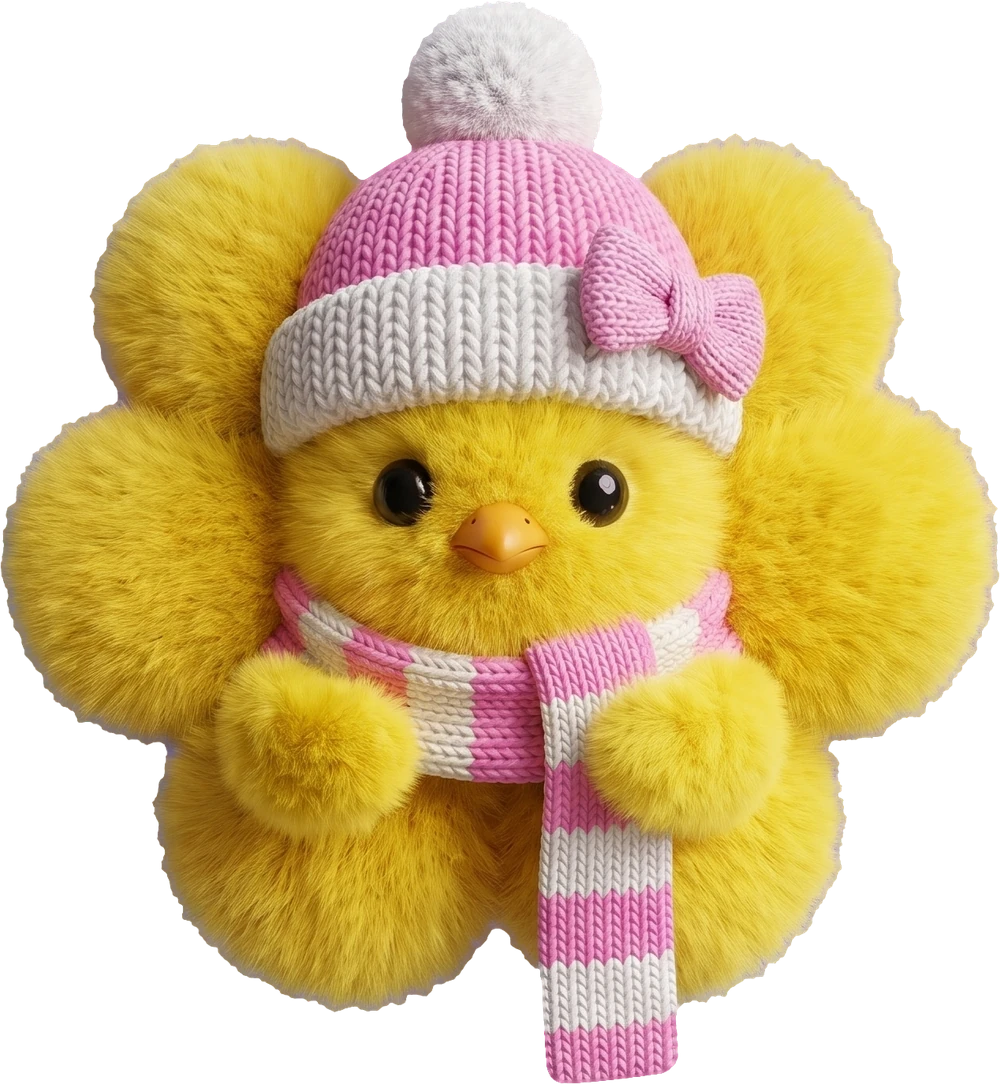
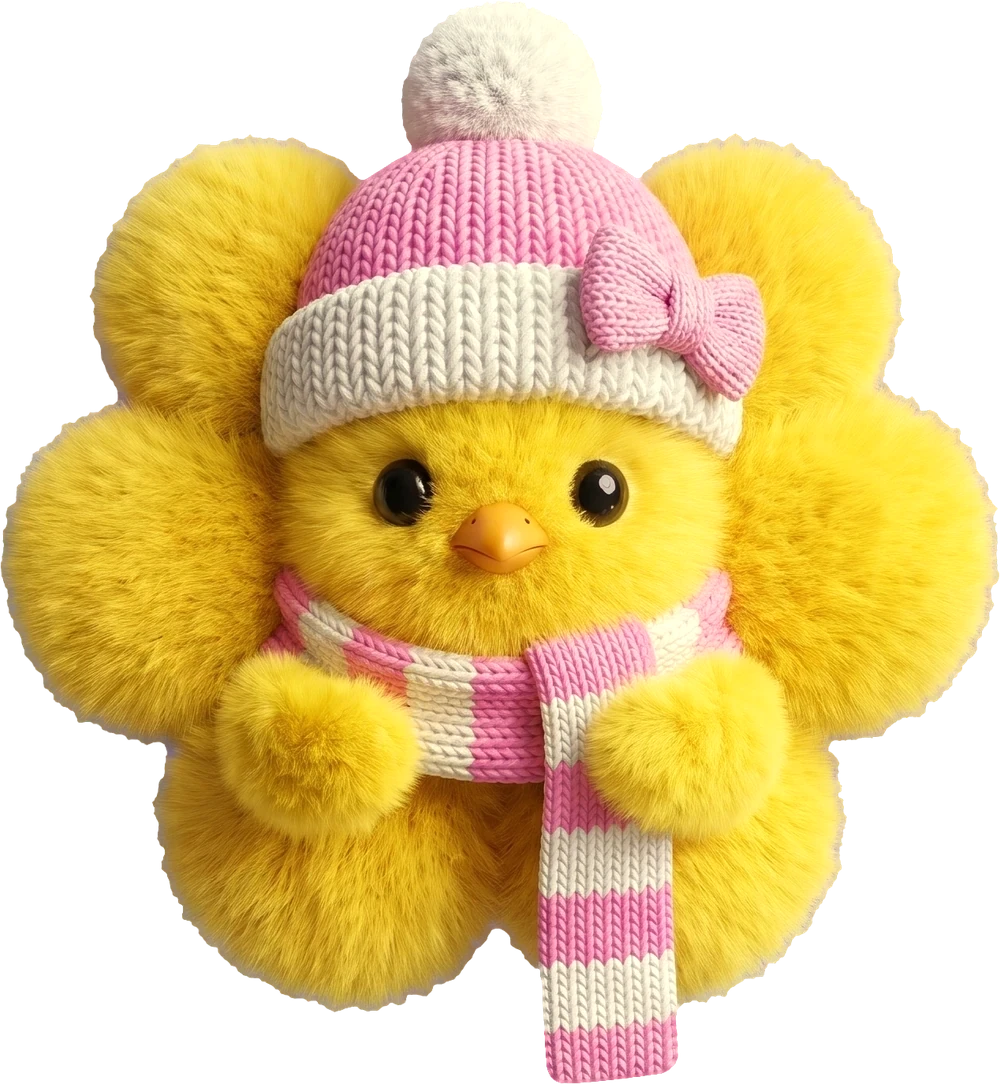
Новорічне курча того ж розміру й кольору, що й звичайне

diff --git a/index.html b/index.html
@@ -271,7 +271,7 @@ body:not(.ny) .snowfall, body:not(.ny) .snowcap{display:none}   /* snow belongs 
 .decor-frame .game{padding-top:calc(255px*var(--s) + 2px)}
 .decor-frame .offer{padding-bottom:calc(120px*var(--s) + 48px)}
 /* New Year chick in a hat is taller: narrower box, same bottom line */
-.ny .rig{left:14%;width:70%;aspect-ratio:1000/1084}
+.ny .rig{left:9%;width:76%;aspect-ratio:1000/1084}   /* same width as the base chick, so both look the same size; only the hat adds height */
 /* spin the knife round to switch the season: a grab zone over the blade and a turning dashed ring as the hint */
 .knife-hit{position:absolute;left:50%;top:18%;width:52%;height:52%;z-index:6;border-radius:50%;cursor:grab;touch-action:none;-webkit-tap-highlight-color:transparent}
 .knife-hit:active{cursor:grabbing}
